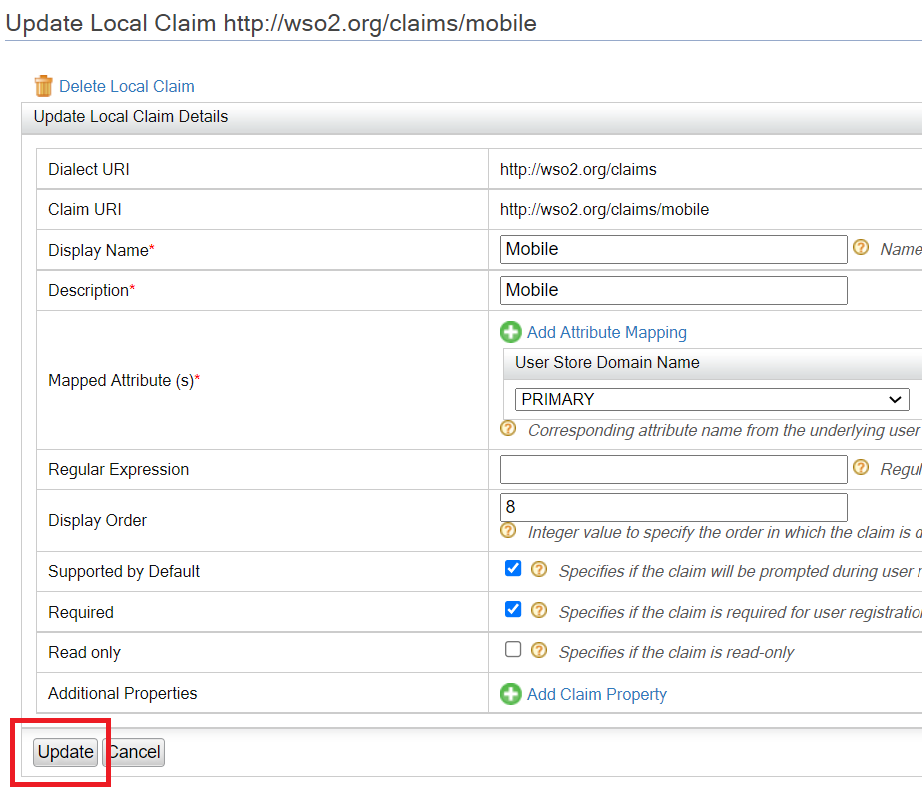
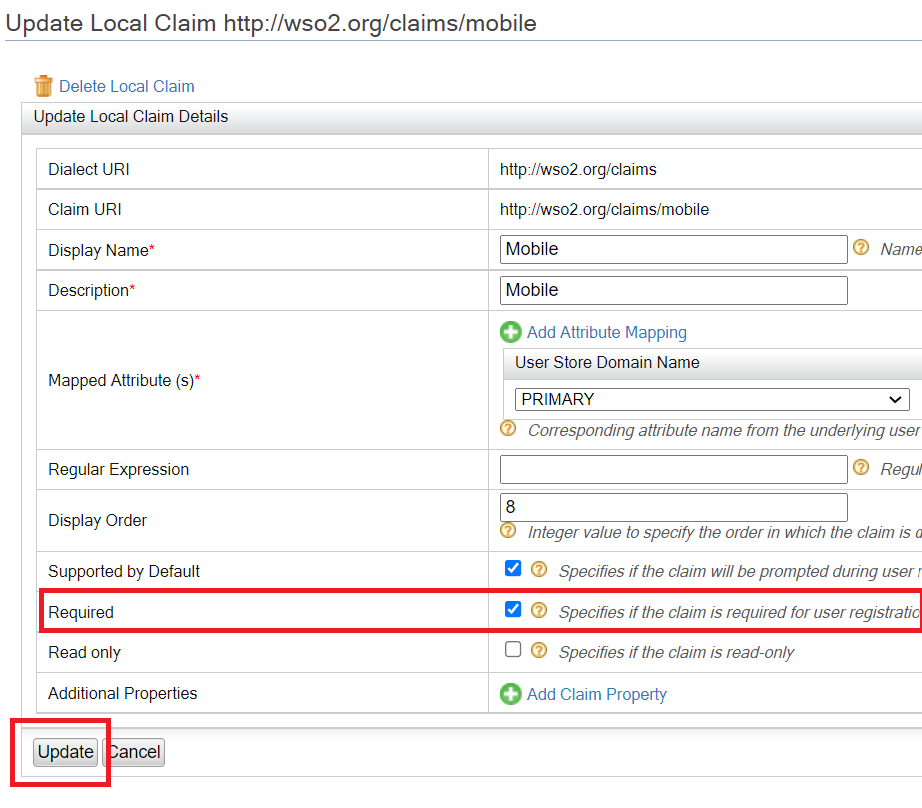
fix
fix

Changed region(s): [[0.0304, 0.7116, 1.0, 0.8045]]

diff --git a/en/docs/install-and-setup/configuring-sms-otp-authenticator.md b/en/docs/install-and-setup/configuring-sms-otp-authenticator.md
@@ -121,28 +121,28 @@ This document provides step by step instructions to set up SMS OTP configuration
 
 4. Scroll down and click **Update**.
 
-### Step 3: Making Mobile Phone a Mandatory Claim
+### Step 3: Configure mobile as a mandatory claim
 
-1. Go to the **Main menu** > **Identity** > **Claims** > **List** > **http://wso2.org/claims** > **Mobile** > **Edit**.
+1. On the **Main menu > Identity > Claims > List**.
 
     ![select_claims_lists](../assets/img/get-started/quick-start-guide/go-to-claims-lists.png)
-
-    ![edit_mobile_claim](../assets/img/get-started/quick-start-guide/edit-mobile-claim.png)
 
 2. Select `http://wso2.org/claims` from the list.
 
     ![claim_list](../assets/img/get-started/quick-start-guide/update-claims.png)
 
-3. Select the **Required** checkbox.
+3. Locate **Mobile** from the list and select **Edit**.
+
+    ![locate_mobile](../assets/img/get-started/quick-start-guide/locate-mobile.png)
+
+4. Select **Required** and click **Update**.
 
     ![update_claim_details](../assets/img/get-started/quick-start-guide/update-local-claim-details.png)
 
-4. Scroll down and click **Update**.
-
     !!! tip "More on Login Information..."
-        In the authentication flow, if you log in as an admin user, it will prompt for the mobile number in the first
-        attempt to log in. The Mobile number should be given in the format of the following example - 94714564567.
+          In the authentication flow, if you log in as an admin user, it will prompt for the mobile number in the first
+          attempt to log in. The Mobile number should be given in the format of the following example - 94714564567.
 
     !!!note
-        Test scenarios can include attempting to log in using invalid usernames more than the allowed number of times, attempting
-        invalid OTPs more than the allowed number of times, etc.
+         Test scenarios can include attempting to log in using invalid usernames more than the allowed number of times, attempting
+         invalid OTPs more than the allowed number of times, etc.

diff --git a/en/docs/get-started/configure-sms-otp-authenticator.md b/en/docs/get-started/configure-sms-otp-authenticator.md
@@ -131,23 +131,23 @@ This document provides step by step instructions to set up SMS OTP configuration
 
 4. Scroll down and click **Update**.
 
-### Step 3: Making Mobile Phone a Mandatory Claim
+### Step 3: Configure mobile as a mandatory claim
 
-1. Go to the **Main menu** > **Identity** > **Claims** > **List** > **http://wso2.org/claims** > **Mobile** > **Edit**.
+1. On the **Main menu > Identity > Claims > List**.
 
     ![select_claims_lists](../assets/img/get-started/quick-start-guide/go-to-claims-lists.png)
-
-    ![edit_mobile_claim](../assets/img/get-started/quick-start-guide/edit-mobile-claim.png)
 
 2. Select `http://wso2.org/claims` from the list.
 
     ![claim_list](../assets/img/get-started/quick-start-guide/update-claims.png)
 
-3. Select the **Required** checkbox.
+3. Locate **Mobile** from the list and select **Edit**.
+
+    ![locate_mobile](../assets/img/get-started/quick-start-guide/locate-mobile.png)
+
+4. Select **Required** and click **Update**.
 
     ![update_claim_details](../assets/img/get-started/quick-start-guide/update-local-claim-details.png)
-
-4. Scroll down and click **Update**.
 
     !!! tip "More on Login Information..."
         In the authentication flow, if you log in as an admin user, it will prompt for the mobile number in the first
